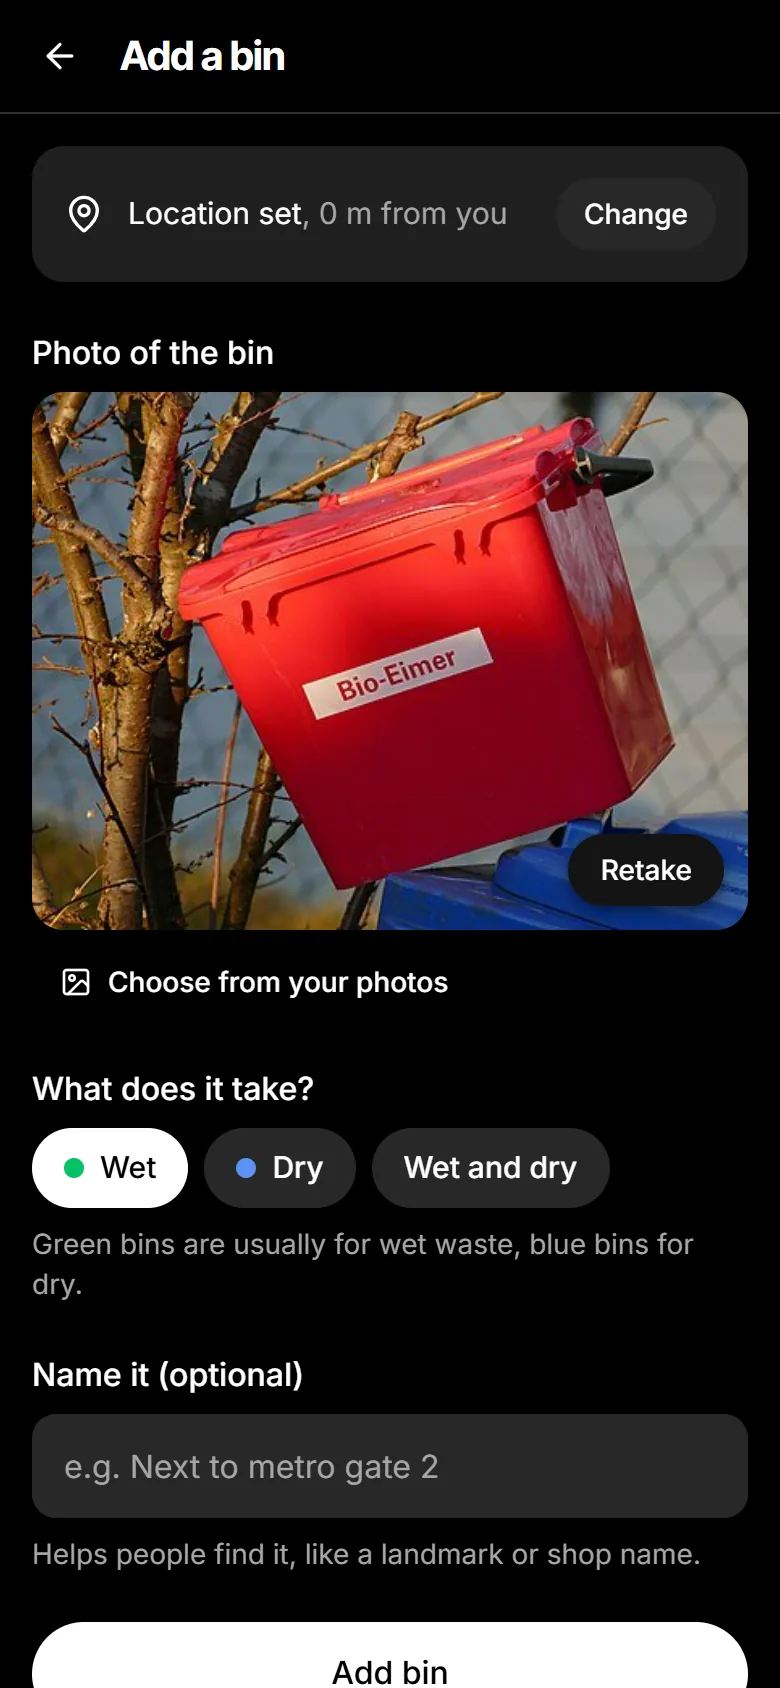
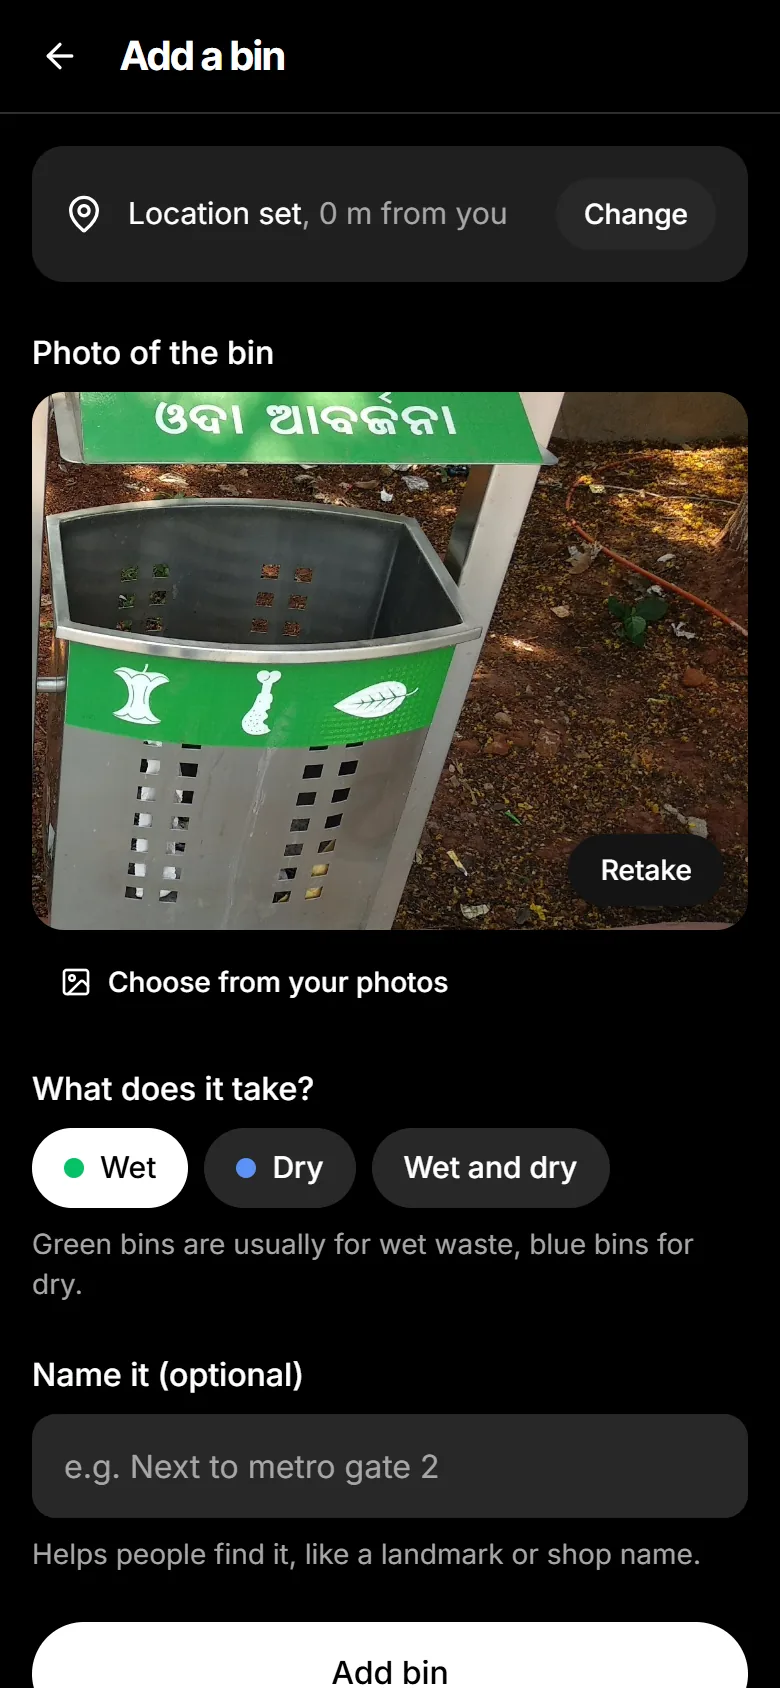
feat(web): indian bin in add-a-bin screenshot

Changed region(s): [[0.0308, 0.2156, 0.9846, 0.5545]]

diff --git a/apps/web/public/landing/CREDITS.md b/apps/web/public/landing/CREDITS.md
@@ -12,4 +12,4 @@ The images are resized and converted to WebP and are otherwise unchanged. The CC
 
 ## App screenshots
 
-`app-*-light|dark.webp` (the Expo app, 390×844 at 2×) and `admin-light|dark.webp` (the admin overview, 1280×800 at 2×) are SmartBin's own screens. They use the demo data from `pnpm --filter @smartbin/api seed:demo`, around Connaught Place, New Delhi.
+`app-*-light|dark.webp` (the Expo app, 390×844 at 2×) and `admin-light|dark.webp` (the admin overview, 1280×800 at 2×) are SmartBin's own screens. The bin photo inside `app-add-details-*` is a crop of `photo-wet-dry-bins.webp` (Soumendra Kumar Sahoo, CC BY-SA 4.0). They use the demo data from `pnpm --filter @smartbin/api seed:demo`, around Connaught Place, New Delhi.
